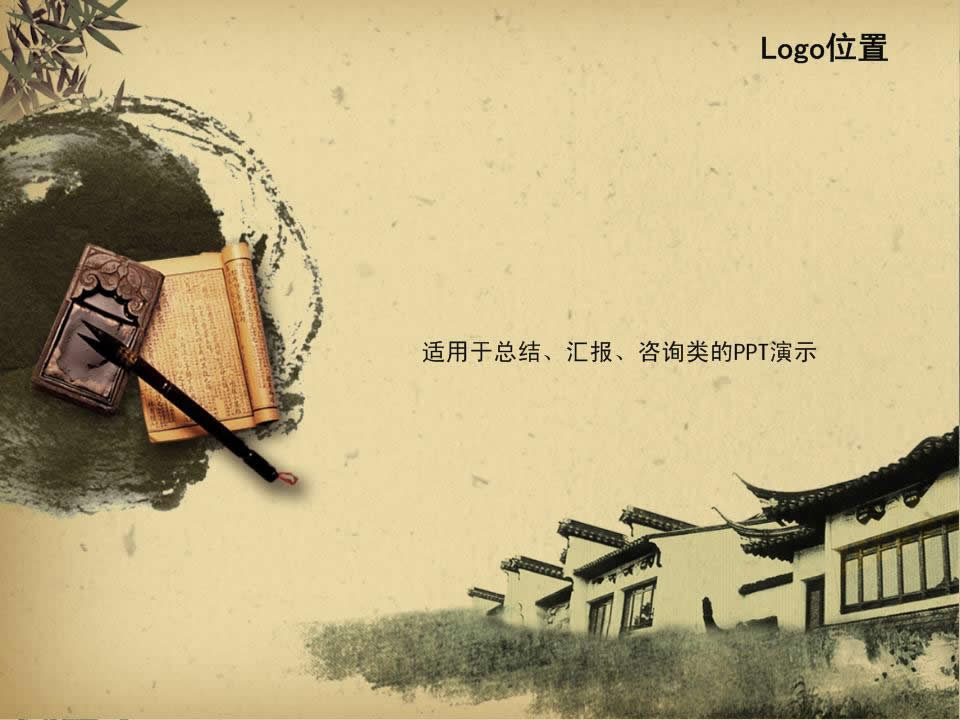
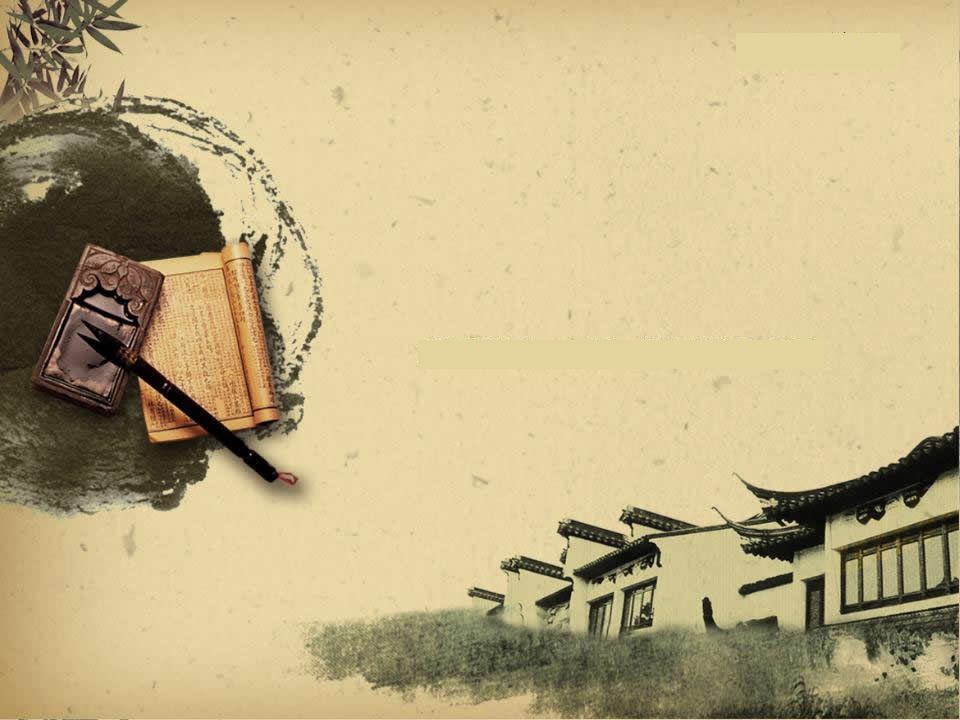
add

Changed region(s): [[0.5938, 0.4583, 0.8438, 0.5194], [0.7812, 0.0306, 0.9375, 0.0917], [0.4375, 0.4583, 0.5625, 0.5194]]

diff --git a/css/index1.css b/css/index1.css
@@ -1,7 +1,7 @@
 *{padding:0; margin:0; list-style:none;}.
 body{position:relative;}
-#start{ width:1350px; height:100%;_display:none;}
-#start .start-b{width:1350px; height:100%; position:absolute; top:0; left:0;}
+#start{ width:100%; height:100%;_display:none;}
+#start .start-b{width:100%; height:100%; position:absolute; top:0; left:0;}
 #start .start-n{position:absolute; top:50px; right:80px; width:80px; height:40px; background:#dac691; cursor:pointer;}
 #start .bg1{ width:570px; height:150px; position:absolute; top:300px; left:575px;}
 #start .bg2{width:400px; height:100px; position:absolute; top:0px; right:0;}
@@ -47,5 +47,5 @@ body{position:relative;}
 #box .contact-me .link-block{position:absolute; top:280px; left:70px;}
 #box .contact-me .link-block p{font-size:22px; color:#666; font-weight:bold; line-height:40px;}
 #box .contact-me .ender{font-size:60px; color:orange; -webkit-text-stroke:2px #666; box-shadow: 5px 2px 6px; position:absolute; bottom:2px; left:40px; transition: 1s all ease; border-radius:20%;}
-#box .contact-me .ender:hover{transform: translate(20px) rotateY(360deg);}
+#box .contact-me .ender:hover{transform:perspective(800px) translate(20px) rotateY(360deg);}
 

diff --git a/index.html b/index.html
@@ -124,8 +124,7 @@ window.onload=function(){
 <!-- 开始界面 -->
 	<div id="start">
 		<img src="img/ppt3598.jpg" class="start-b" />
-		<img src="img/bg.jpg" class="bg1" />
-		<img src="img/bg2.jpg" class="bg2" />
+		
 		<div id="nav">
 			<span></span>
 		</div>
